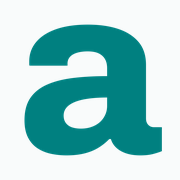
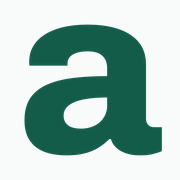
Rebuild site 2026-09-19
Tab icon in #145c4a rather than #008080, matching the circle on
aismaeel.com and the stylesheet's own --accent.

diff --git a/car-rental/index.html b/car-rental/index.html
@@ -6,7 +6,7 @@
 <title>Saudi car rental: three fleets and the resale nobody counts, FY2018 to FY2025 · aismaeel</title>
 <meta name="description" content="Three companies buying the same cars, hiring them out in the same market and selling them into the same used-car market. The renting is not what separates them: charge each one properly for the vehicle wearing out and their operating margins land within half a point of each other. What is left is the balance sheet, and the margin between what these fleets earn and what the money costs has all but closed.">
 <link rel="canonical" href="https://research.aismaeel.com/car-rental/"><meta property="og:type" content="website"><meta property="og:site_name" content="aismaeel"><meta property="og:title" content="Saudi car rental: three fleets and the resale nobody counts, FY2018 to FY2025"><meta property="og:description" content="Three companies buying the same cars, hiring them out in the same market and selling them into the same used-car market. The renting is not what separates them: charge each one properly for the vehicle wearing out and their operating margins land within half a point of each other. What is left is the balance sheet, and the margin between what these fleets earn and what the money costs has all but closed."><meta property="og:url" content="https://research.aismaeel.com/car-rental/"><meta property="og:image" content="https://research.aismaeel.com/assets/cards/car-rental.png"><meta property="og:image:width" content="1200"><meta property="og:image:height" content="630"><meta property="og:image:alt" content="Saudi car rental: three fleets and the resale nobody counts, FY2018 to FY2025"><meta name="twitter:image" content="https://research.aismaeel.com/assets/cards/car-rental.png"><meta name="twitter:card" content="summary_large_image">
-<link rel="icon" href="../assets/icon.svg?v=827e37741d" type="image/svg+xml">
+<link rel="icon" href="../assets/icon.svg?v=0ff4bff551" type="image/svg+xml">
 <link rel="icon" href="../favicon.ico" sizes="32x32">
 <link rel="apple-touch-icon" href="../assets/apple-touch-icon.png">
 <link rel="stylesheet" href="../assets/style.css?v=86ab340134">

diff --git a/mills/index.html b/mills/index.html
@@ -6,7 +6,7 @@
 <title>Saudi flour milling: four companies, one price, FY2018 to FY2025 · aismaeel</title>
 <meta name="description" content="Four companies buying the same wheat at the same administered price and selling most of their flour at another, so the operating results barely differ. What separates their returns is not milling. It is what each buyer paid for the company at privatization, and how much of that price still sits on the balance sheet.">
 <link rel="canonical" href="https://research.aismaeel.com/mills/"><meta property="og:type" content="website"><meta property="og:site_name" content="aismaeel"><meta property="og:title" content="Saudi flour milling: four companies, one price, FY2018 to FY2025"><meta property="og:description" content="Four companies buying the same wheat at the same administered price and selling most of their flour at another, so the operating results barely differ. What separates their returns is not milling. It is what each buyer paid for the company at privatization, and how much of that price still sits on the balance sheet."><meta property="og:url" content="https://research.aismaeel.com/mills/"><meta property="og:image" content="https://research.aismaeel.com/assets/cards/mills.png"><meta property="og:image:width" content="1200"><meta property="og:image:height" content="630"><meta property="og:image:alt" content="Saudi flour milling: four companies, one price, FY2018 to FY2025"><meta name="twitter:image" content="https://research.aismaeel.com/assets/cards/mills.png"><meta name="twitter:card" content="summary_large_image">
-<link rel="icon" href="../assets/icon.svg?v=827e37741d" type="image/svg+xml">
+<link rel="icon" href="../assets/icon.svg?v=0ff4bff551" type="image/svg+xml">
 <link rel="icon" href="../favicon.ico" sizes="32x32">
 <link rel="apple-touch-icon" href="../assets/apple-touch-icon.png">
 <link rel="stylesheet" href="../assets/style.css?v=86ab340134">

diff --git a/telecom/index.html b/telecom/index.html
@@ -6,7 +6,7 @@
 <title>Saudi telecom: three operators and the cost of the network, FY2018 to FY2025 · aismaeel</title>
 <meta name="description" content="A three-operator market on a network whose cost is already sunk, where the question is not who grows revenue but who earns more on that capital than it costs. On that test the three separate sharply, and the order has changed over the period covered.">
 <link rel="canonical" href="https://research.aismaeel.com/telecom/"><meta property="og:type" content="website"><meta property="og:site_name" content="aismaeel"><meta property="og:title" content="Saudi telecom: three operators and the cost of the network, FY2018 to FY2025"><meta property="og:description" content="A three-operator market on a network whose cost is already sunk, where the question is not who grows revenue but who earns more on that capital than it costs. On that test the three separate sharply, and the order has changed over the period covered."><meta property="og:url" content="https://research.aismaeel.com/telecom/"><meta property="og:image" content="https://research.aismaeel.com/assets/cards/telecom.png"><meta property="og:image:width" content="1200"><meta property="og:image:height" content="630"><meta property="og:image:alt" content="Saudi telecom: three operators and the cost of the network, FY2018 to FY2025"><meta name="twitter:image" content="https://research.aismaeel.com/assets/cards/telecom.png"><meta name="twitter:card" content="summary_large_image">
-<link rel="icon" href="../assets/icon.svg?v=827e37741d" type="image/svg+xml">
+<link rel="icon" href="../assets/icon.svg?v=0ff4bff551" type="image/svg+xml">
 <link rel="icon" href="../favicon.ico" sizes="32x32">
 <link rel="apple-touch-icon" href="../assets/apple-touch-icon.png">
 <link rel="stylesheet" href="../assets/style.css?v=86ab340134">

diff --git a/mills/2286-fourth-milling.html b/mills/2286-fourth-milling.html
@@ -6,7 +6,7 @@
 <title>Fourth Mills · aismaeel</title>
 <meta name="description" content="The smallest of the four, and the only one with no bank borrowings at all and next to no purchase premium. It runs its plant harder than anyone else in the cohort and turns more of">
 <link rel="canonical" href="https://research.aismaeel.com/mills/2286-fourth-milling.html"><meta property="og:type" content="website"><meta property="og:site_name" content="aismaeel"><meta property="og:title" content="Fourth Mills"><meta property="og:description" content="The smallest of the four, and the only one with no bank borrowings at all and next to no purchase premium. It runs its plant harder than anyone else in the cohort and turns more of"><meta property="og:url" content="https://research.aismaeel.com/mills/2286-fourth-milling.html"><meta property="og:image" content="https://research.aismaeel.com/assets/cards/2286-fourth-milling.png"><meta property="og:image:width" content="1200"><meta property="og:image:height" content="630"><meta property="og:image:alt" content="Fourth Mills"><meta name="twitter:image" content="https://research.aismaeel.com/assets/cards/2286-fourth-milling.png"><meta name="twitter:card" content="summary_large_image">
-<link rel="icon" href="../assets/icon.svg?v=827e37741d" type="image/svg+xml">
+<link rel="icon" href="../assets/icon.svg?v=0ff4bff551" type="image/svg+xml">
 <link rel="icon" href="../favicon.ico" sizes="32x32">
 <link rel="apple-touch-icon" href="../assets/apple-touch-icon.png">
 <link rel="stylesheet" href="../assets/style.css?v=86ab340134">

diff --git a/mills/2285-arabian-mills.html b/mills/2285-arabian-mills.html
@@ -6,7 +6,7 @@
 <title>Arabian Mills · aismaeel</title>
 <meta name="description" content="The widest gross margin in the cohort, earned on the second-largest milling capacity, against a purchase premium and a debt package to work off. It has cut borrowings hard and reta">
 <link rel="canonical" href="https://research.aismaeel.com/mills/2285-arabian-mills.html"><meta property="og:type" content="website"><meta property="og:site_name" content="aismaeel"><meta property="og:title" content="Arabian Mills"><meta property="og:description" content="The widest gross margin in the cohort, earned on the second-largest milling capacity, against a purchase premium and a debt package to work off. It has cut borrowings hard and reta"><meta property="og:url" content="https://research.aismaeel.com/mills/2285-arabian-mills.html"><meta property="og:image" content="https://research.aismaeel.com/assets/cards/2285-arabian-mills.png"><meta property="og:image:width" content="1200"><meta property="og:image:height" content="630"><meta property="og:image:alt" content="Arabian Mills"><meta name="twitter:image" content="https://research.aismaeel.com/assets/cards/2285-arabian-mills.png"><meta name="twitter:card" content="summary_large_image">
-<link rel="icon" href="../assets/icon.svg?v=827e37741d" type="image/svg+xml">
+<link rel="icon" href="../assets/icon.svg?v=0ff4bff551" type="image/svg+xml">
 <link rel="icon" href="../favicon.ico" sizes="32x32">
 <link rel="apple-touch-icon" href="../assets/apple-touch-icon.png">
 <link rel="stylesheet" href="../assets/style.css?v=86ab340134">

diff --git a/mills/2283-first-milling.html b/mills/2283-first-milling.html
@@ -6,7 +6,7 @@
 <title>First Mills · aismaeel</title>
 <meta name="description" content="The biggest plant, the most tons and the widest product range in the cohort, bought with a purchase premium that still makes up close to half of its invested capital. On the assets">
 <link rel="canonical" href="https://research.aismaeel.com/mills/2283-first-milling.html"><meta property="og:type" content="website"><meta property="og:site_name" content="aismaeel"><meta property="og:title" content="First Mills"><meta property="og:description" content="The biggest plant, the most tons and the widest product range in the cohort, bought with a purchase premium that still makes up close to half of its invested capital. On the assets"><meta property="og:url" content="https://research.aismaeel.com/mills/2283-first-milling.html"><meta property="og:image" content="https://research.aismaeel.com/assets/cards/2283-first-milling.png"><meta property="og:image:width" content="1200"><meta property="og:image:height" content="630"><meta property="og:image:alt" content="First Mills"><meta name="twitter:image" content="https://research.aismaeel.com/assets/cards/2283-first-milling.png"><meta name="twitter:card" content="summary_large_image">
-<link rel="icon" href="../assets/icon.svg?v=827e37741d" type="image/svg+xml">
+<link rel="icon" href="../assets/icon.svg?v=0ff4bff551" type="image/svg+xml">
 <link rel="icon" href="../favicon.ico" sizes="32x32">
 <link rel="apple-touch-icon" href="../assets/apple-touch-icon.png">
 <link rel="stylesheet" href="../assets/style.css?v=86ab340134">

diff --git a/mills/2284-modern-mills.html b/mills/2284-modern-mills.html
@@ -6,7 +6,7 @@
 <title>Modern Mills · aismaeel</title>
 <meta name="description" content="No acquisition goodwill and the smallest capital base in the sector, which is why it posts the highest reported return on capital and the widest spread over the cost of it. It got ">
 <link rel="canonical" href="https://research.aismaeel.com/mills/2284-modern-mills.html"><meta property="og:type" content="website"><meta property="og:site_name" content="aismaeel"><meta property="og:title" content="Modern Mills"><meta property="og:description" content="No acquisition goodwill and the smallest capital base in the sector, which is why it posts the highest reported return on capital and the widest spread over the cost of it. It got "><meta property="og:url" content="https://research.aismaeel.com/mills/2284-modern-mills.html"><meta property="og:image" content="https://research.aismaeel.com/assets/cards/2284-modern-mills.png"><meta property="og:image:width" content="1200"><meta property="og:image:height" content="630"><meta property="og:image:alt" content="Modern Mills"><meta name="twitter:image" content="https://research.aismaeel.com/assets/cards/2284-modern-mills.png"><meta name="twitter:card" content="summary_large_image">
-<link rel="icon" href="../assets/icon.svg?v=827e37741d" type="image/svg+xml">
+<link rel="icon" href="../assets/icon.svg?v=0ff4bff551" type="image/svg+xml">
 <link rel="icon" href="../favicon.ico" sizes="32x32">
 <link rel="apple-touch-icon" href="../assets/apple-touch-icon.png">
 <link rel="stylesheet" href="../assets/style.css?v=86ab340134">

diff --git a/car-rental/4260-budget.html b/car-rental/4260-budget.html
@@ -6,7 +6,7 @@
 <title>Budget Saudi · aismaeel</title>
 <meta name="description" content="The biggest fleet, the widest branch network and the most lease-weighted revenue of the three, carried on much the safest balance sheet in the sector. Its reported margins are the ">
 <link rel="canonical" href="https://research.aismaeel.com/car-rental/4260-budget.html"><meta property="og:type" content="website"><meta property="og:site_name" content="aismaeel"><meta property="og:title" content="Budget Saudi"><meta property="og:description" content="The biggest fleet, the widest branch network and the most lease-weighted revenue of the three, carried on much the safest balance sheet in the sector. Its reported margins are the "><meta property="og:url" content="https://research.aismaeel.com/car-rental/4260-budget.html"><meta property="og:image" content="https://research.aismaeel.com/assets/cards/4260-budget.png"><meta property="og:image:width" content="1200"><meta property="og:image:height" content="630"><meta property="og:image:alt" content="Budget Saudi"><meta name="twitter:image" content="https://research.aismaeel.com/assets/cards/4260-budget.png"><meta name="twitter:card" content="summary_large_image">
-<link rel="icon" href="../assets/icon.svg?v=827e37741d" type="image/svg+xml">
+<link rel="icon" href="../assets/icon.svg?v=0ff4bff551" type="image/svg+xml">
 <link rel="icon" href="../favicon.ico" sizes="32x32">
 <link rel="apple-touch-icon" href="../assets/apple-touch-icon.png">
 <link rel="stylesheet" href="../assets/style.css?v=86ab340134">

diff --git a/telecom/7020-mobily.html b/telecom/7020-mobily.html
@@ -6,7 +6,7 @@
 <title>Mobily · aismaeel</title>
 <meta name="description" content="Began this window earning well below its cost of capital and has been above it five years running, closing most of the gap to the incumbent without overtaking it. Whether that is a">
 <link rel="canonical" href="https://research.aismaeel.com/telecom/7020-mobily.html"><meta property="og:type" content="website"><meta property="og:site_name" content="aismaeel"><meta property="og:title" content="Mobily"><meta property="og:description" content="Began this window earning well below its cost of capital and has been above it five years running, closing most of the gap to the incumbent without overtaking it. Whether that is a"><meta property="og:url" content="https://research.aismaeel.com/telecom/7020-mobily.html"><meta property="og:image" content="https://research.aismaeel.com/assets/cards/7020-mobily.png"><meta property="og:image:width" content="1200"><meta property="og:image:height" content="630"><meta property="og:image:alt" content="Mobily"><meta name="twitter:image" content="https://research.aismaeel.com/assets/cards/7020-mobily.png"><meta name="twitter:card" content="summary_large_image">
-<link rel="icon" href="../assets/icon.svg?v=827e37741d" type="image/svg+xml">
+<link rel="icon" href="../assets/icon.svg?v=0ff4bff551" type="image/svg+xml">
 <link rel="icon" href="../favicon.ico" sizes="32x32">
 <link rel="apple-touch-icon" href="../assets/apple-touch-icon.png">
 <link rel="stylesheet" href="../assets/style.css?v=86ab340134">

diff --git a/car-rental/4261-theeb.html b/car-rental/4261-theeb.html
@@ -6,7 +6,7 @@
 <title>Theeb · aismaeel</title>
 <meta name="description" content="The only one of the three that earns more from renting by the day than from leasing by the year, run on much the most leveraged balance sheet in the sector. It reports the widest m">
 <link rel="canonical" href="https://research.aismaeel.com/car-rental/4261-theeb.html"><meta property="og:type" content="website"><meta property="og:site_name" content="aismaeel"><meta property="og:title" content="Theeb"><meta property="og:description" content="The only one of the three that earns more from renting by the day than from leasing by the year, run on much the most leveraged balance sheet in the sector. It reports the widest m"><meta property="og:url" content="https://research.aismaeel.com/car-rental/4261-theeb.html"><meta property="og:image" content="https://research.aismaeel.com/assets/cards/4261-theeb.png"><meta property="og:image:width" content="1200"><meta property="og:image:height" content="630"><meta property="og:image:alt" content="Theeb"><meta name="twitter:image" content="https://research.aismaeel.com/assets/cards/4261-theeb.png"><meta name="twitter:card" content="summary_large_image">
-<link rel="icon" href="../assets/icon.svg?v=827e37741d" type="image/svg+xml">
+<link rel="icon" href="../assets/icon.svg?v=0ff4bff551" type="image/svg+xml">
 <link rel="icon" href="../favicon.ico" sizes="32x32">
 <link rel="apple-touch-icon" href="../assets/apple-touch-icon.png">
 <link rel="stylesheet" href="../assets/style.css?v=86ab340134">

diff --git a/telecom/7030-zain.html b/telecom/7030-zain.html
@@ -6,7 +6,7 @@
 <title>Zain KSA · aismaeel</title>
 <meta name="description" content="The smallest and the most leveraged, which on a fixed-cost network is the hardest place to stand. It has stayed below its cost of capital in every year covered here, though the gap">
 <link rel="canonical" href="https://research.aismaeel.com/telecom/7030-zain.html"><meta property="og:type" content="website"><meta property="og:site_name" content="aismaeel"><meta property="og:title" content="Zain KSA"><meta property="og:description" content="The smallest and the most leveraged, which on a fixed-cost network is the hardest place to stand. It has stayed below its cost of capital in every year covered here, though the gap"><meta property="og:url" content="https://research.aismaeel.com/telecom/7030-zain.html"><meta property="og:image" content="https://research.aismaeel.com/assets/cards/7030-zain.png"><meta property="og:image:width" content="1200"><meta property="og:image:height" content="630"><meta property="og:image:alt" content="Zain KSA"><meta name="twitter:image" content="https://research.aismaeel.com/assets/cards/7030-zain.png"><meta name="twitter:card" content="summary_large_image">
-<link rel="icon" href="../assets/icon.svg?v=827e37741d" type="image/svg+xml">
+<link rel="icon" href="../assets/icon.svg?v=0ff4bff551" type="image/svg+xml">
 <link rel="icon" href="../favicon.ico" sizes="32x32">
 <link rel="apple-touch-icon" href="../assets/apple-touch-icon.png">
 <link rel="stylesheet" href="../assets/style.css?v=86ab340134">

diff --git a/car-rental/4262-lumi.html b/car-rental/4262-lumi.html
@@ -6,7 +6,7 @@
 <title>Lumi · aismaeel</title>
 <meta name="description" content="The fastest fleet build in the sector by a distance, and the only one of the three never to have declared a dividend. It earns the highest return on capital here and pays the highe">
 <link rel="canonical" href="https://research.aismaeel.com/car-rental/4262-lumi.html"><meta property="og:type" content="website"><meta property="og:site_name" content="aismaeel"><meta property="og:title" content="Lumi"><meta property="og:description" content="The fastest fleet build in the sector by a distance, and the only one of the three never to have declared a dividend. It earns the highest return on capital here and pays the highe"><meta property="og:url" content="https://research.aismaeel.com/car-rental/4262-lumi.html"><meta property="og:image" content="https://research.aismaeel.com/assets/cards/4262-lumi.png"><meta property="og:image:width" content="1200"><meta property="og:image:height" content="630"><meta property="og:image:alt" content="Lumi"><meta name="twitter:image" content="https://research.aismaeel.com/assets/cards/4262-lumi.png"><meta name="twitter:card" content="summary_large_image">
-<link rel="icon" href="../assets/icon.svg?v=827e37741d" type="image/svg+xml">
+<link rel="icon" href="../assets/icon.svg?v=0ff4bff551" type="image/svg+xml">
 <link rel="icon" href="../favicon.ico" sizes="32x32">
 <link rel="apple-touch-icon" href="../assets/apple-touch-icon.png">
 <link rel="stylesheet" href="../assets/style.css?v=86ab340134">
